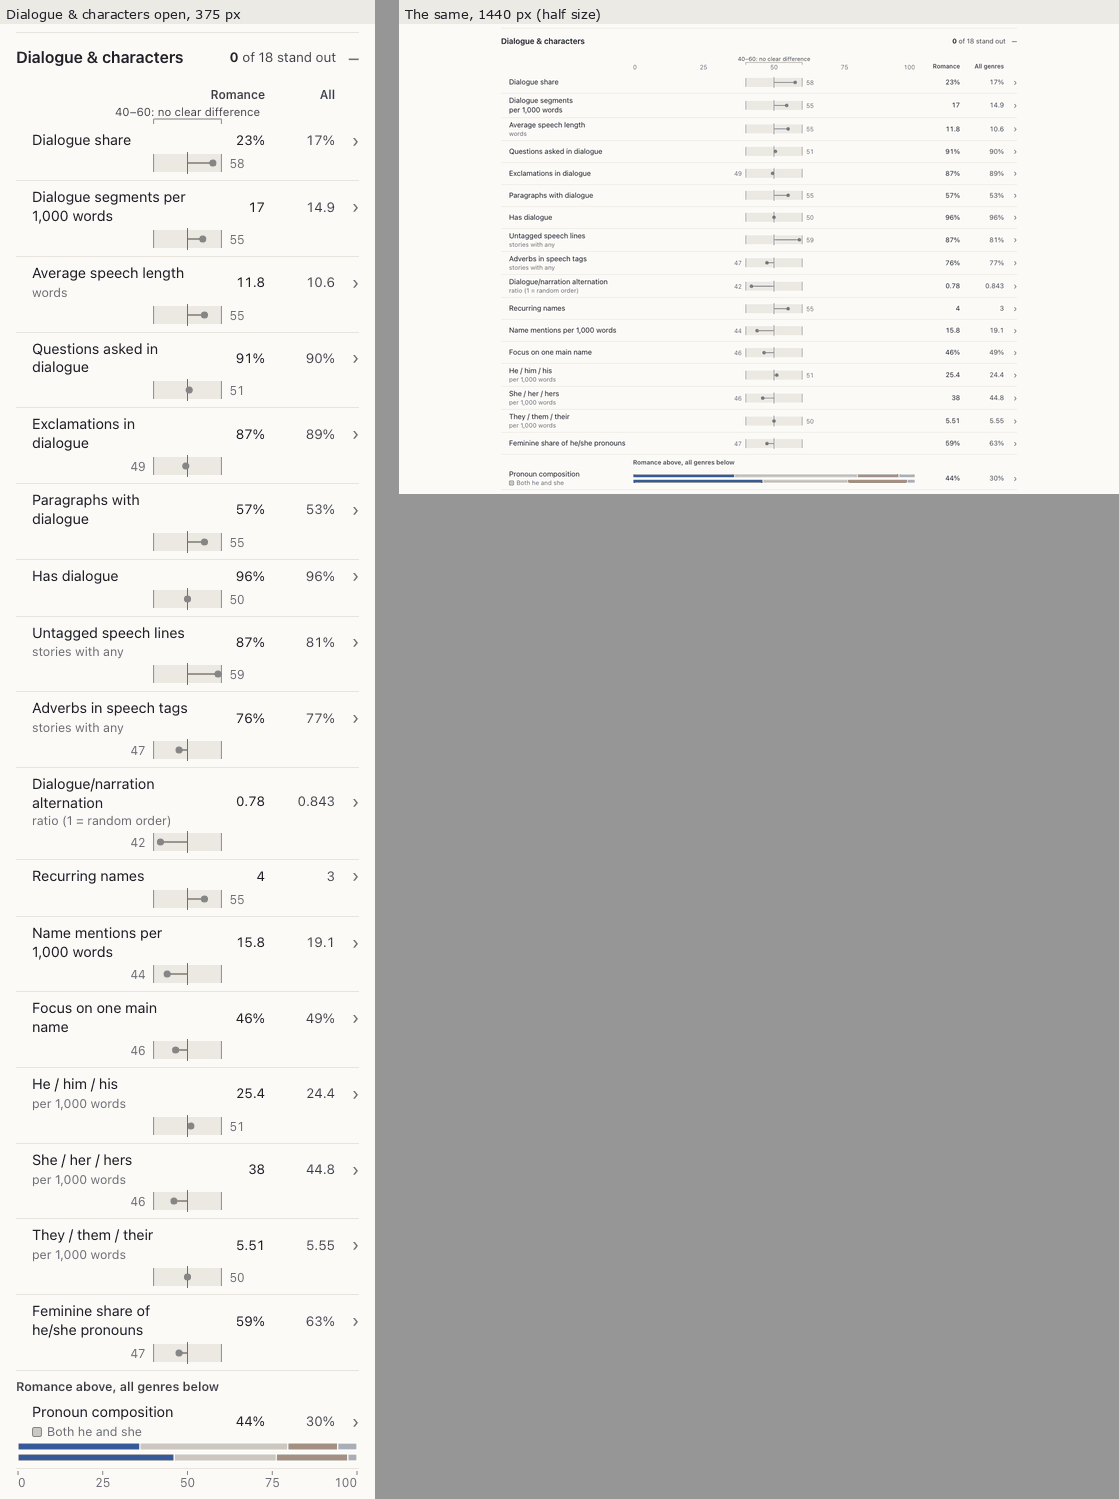
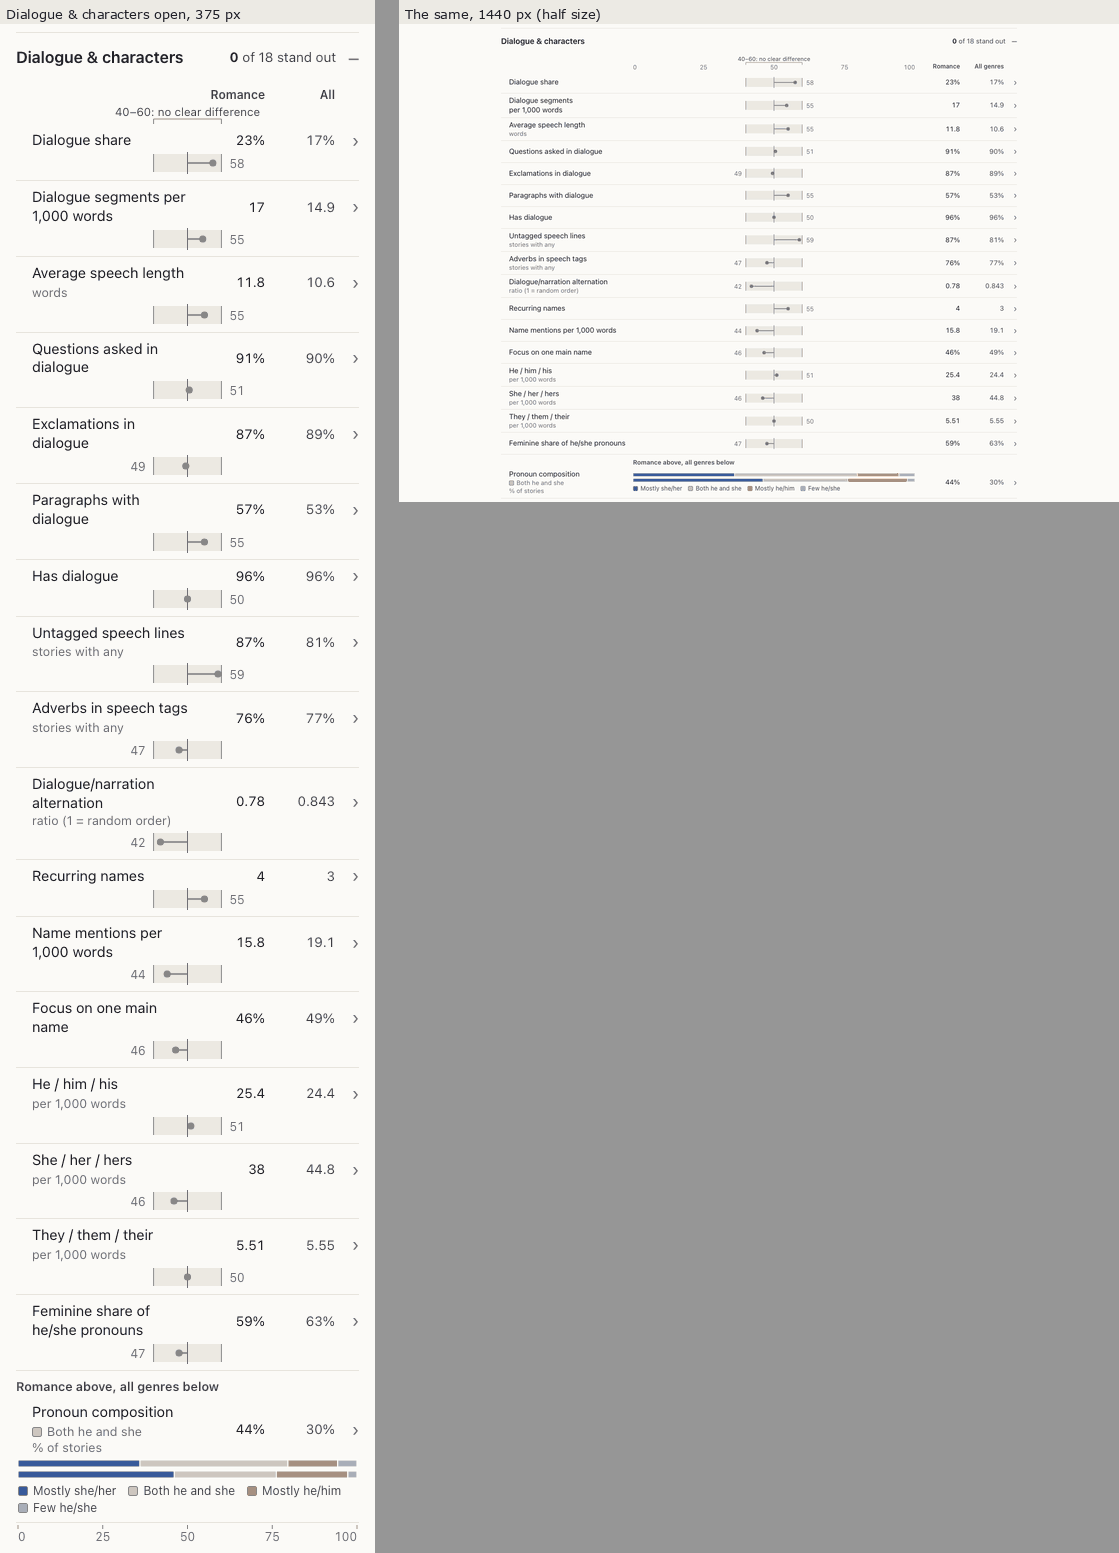
Stage 2 one genre: the key and "% of stories", measured and read again
docs/stage2/ONE_GENRE_REVIEW.md, new section 10.9: the owner's second follow-up (a key of every group under a named
group's bars, "% of stories" on the row and in its name), as built in fddb2fa; 10.8's two open items are marked done.

Measured: 0 glyph-box problems in 360 pages with either font, with 1,680 keys checked too; the bad-break output the
same line for line; axe 0 in 30 runs; label in name passes; the keys draw in forced colors, light and dark; first
load 148.5 KiB, unchanged; a visit on View 2 204.4 KiB.

The stand-ins again: "only one color labeled" 0/6 (6/6); in Q11, 6/6 name every group and its color from the key,
6/6 read the shares as shares of stories (6/6 unsure before), and which bar is which and what 44% and 30% go with
stay at 6/6. Left for the owner: the named groups' palette (its blue and gray read like "stands out" and "no clear
difference", 3/6), and a verdict on a named-group row that doesn't stand out.

After screenshots a03, a05, a06, a07 and a09 redone.

diff --git a/docs/stage2/ONE_GENRE_REVIEW.md b/docs/stage2/ONE_GENRE_REVIEW.md
@@ -4,7 +4,7 @@
 review: before and after, the README and the prompt"). **Status: approved and implemented** on branch `one-genre` (from
 `main` at `0d8611d`, October 10–11, 2026), following `STAGE2_ONE_GENRE_IMPLEMENTATION_PROMPT.md`: R3, S1 and T1 with the
 quick wins. Not pushed. What was built, measured and left open is in section 10; your follow-up on the mix line
-(October 11) is in 10.8.*
+(October 11) is in 10.8 and 10.9.*
 
 - **A branch to know about.** While I wrote this, your working copy moved to `simplify-png`: eleven commits after
   `692939e`, since merged into `main` as `0d8611d`. On View 2 it removes three things this review covers:
@@ -1214,13 +1214,13 @@ in `scores.md` ("built-mix").
   score explained once (6/6), an open topic "a long wall" of gray rows (3/3 desktop). Five rated the page 3 of 5; one
   said 4 for the gist and 3 for the charts (every earlier run said 3).
 
-**Still open (each needs your yes)**
+**Still open (each needs your yes)** *(both done at your word on October 11: 10.9)*
 
-- **The named groups' other colors**: a key for all of a row's groups, as View 1's legend has ("■ Mostly she/her
+- ~~**The named groups' other colors**: a key for all of a row's groups, as View 1's legend has ("■ Mostly she/her
   ■ Both he and she ■ Mostly he/him ■ Few he/she"), under the bars or in place of the one name; it would add a line
-  to each such row, and its words are new.
-- **What the bars split**: "% of stories" somewhere on the row (each story counts once, in the group its pronouns put
-  it in), e.g. in the unit line after the group's name. New words too.
+  to each such row, and its words are new.~~
+- ~~**What the bars split**: "% of stories" somewhere on the row (each story counts once, in the group its pronouns put
+  it in), e.g. in the unit line after the group's name. New words too.~~
 
 **My calls here**
 
@@ -1231,3 +1231,65 @@ in `scores.md` ("built-mix").
 3. **Each named-group row gets its own line**, so "Narration" has two, two rows apart.
 4. **No swatch where the bars aren't drawn** (too few stories to compare), since there would be nothing for it to
    key; the group's name stays.
+
+### 10.9 Your second follow-up: a key of every group, and "% of stories" (October 11)
+
+You chose both fixes 10.8 left open. Built in `fddb2fa`; this write-up and the redone screenshots are the commit after
+it. Not pushed.
+
+**What changed**
+
+- **A key under a named group's bars**, as View 1's legend has it: every group's swatch and name, in the bars' order
+  (`mixColors`, so the colors are the bars' own), 12 px in the second ink, an item never broken. It sits in the plot's
+  cell, under the bars: wide, in the plot's column; stacked, across the row. Only where the bars are drawn, so not with
+  too few stories to compare. Hidden from screen readers, as the bars are: the row's name has every share.
+- **"% of stories"** on a line of its own under the printed group's name, wherever the row prints numbers (also without
+  bars), and in the row's name: "Pronoun composition, % of stories: Romance Mostly she/her 36%, …".
+
+**Measured** on the build, frozen and served with gzip (`v2glyphs-key.mjs` adds the key; `forcedgenres-key.mjs` adds
+its items and counts an element's own text beside a child, which the earlier copy missed):
+
+| Measure | `0aa851d` | Now |
+|---|---|---|
+| Glyph boxes, 360 pages each font | 0 problems | **0 with the site font and 0 with Verdana**, the same 76,328 rows; plus 1,680 keys (under their bars, inside the plot's cell and the row, items on one line and on no other item) and "% of stories" under its group's name |
+| Bad breaks, every genre, both fonts, 4 widths | 0 | **0**; the whole output the same line for line |
+| axe-core (30 runs) / label in name | 0 / passes | **0 / passes** |
+| Forced colors, light and dark | every mark draws | every mark draws, the key's items too (their text in the link's color, the swatches in theirs) |
+| First load | 148.5 KiB | **148.5 KiB**: the main script the same but for the chunks' names |
+| A visit that starts on View 2 | 204.3 KiB | 204.4 KiB, 8 requests |
+| The Genres chunk, as Vite counts it | 58.52 kB, 18.74 kB gzipped; CSS 14.21 kB, 3.54 kB | 58.94 kB, 18.84 kB gzipped; CSS 14.45 kB, 3.59 kB |
+| Tests | 359 in 29 files | 360 in 29 files |
+
+**Screenshots**: a03, a05, a06, a07 and a09 are redone from this build; a07 because its genre's rows without bars now
+say "% of stories".
+
+**Fresh eyes again** (screens `built-key`, the same six-stand-in test and Q11; `fresh-eyes/built-key.md`, scored in
+`scores.md` as "built-key"):
+
+| | Only one color labeled (Q10) | Q11: which bar is which | Q11: what 44% and 30% go with | Q11: what the other colors are | Q11: what the shares are of |
+|---|---|---|---|---|---|
+| 10.8 | 6/6 | 6/6 | 6/6 | 0/6 | 6/6 unsure |
+| **Now** | **0/6** | **6/6** | **6/6** | **6/6**, from the key | **6/6**: "the share of stories that use both he and she" |
+
+- The mix line confused 0/6 again; Q4, Q5, Q7, Q9b and the gray dots stay at 6/6; all six rated the page 3 of 5.
+- **New or still:** the named groups' blue and gray read like the page's "stands out" blue and "no clear difference"
+  gray (3/6) and the two blues look alike (3/6); "Romance above, all genres below" is small or easy to miss (3/6,
+  phones); the bars are thin (3/6, desktops); a named-group row has no dot, so whether 44% vs 30% is a clear difference
+  isn't shown on it (2/6).
+
+**Still open (each needs your yes)**
+
+- **The named groups' palette** is the Genres page's, in both views (the largest group in the darkest blue, the second
+  in a warm gray). Colors that can't be read as "stands out" or "no clear difference" would change View 1's charts too.
+- **A named-group row's verdict**: a stand-out has its ≠ in a topic and sits in "A different mix", but a row that
+  doesn't stand out shows nothing like a gray dot; "no clear difference" could be said on the row (new words).
+
+**My calls here**
+
+1. **The key in the plot's cell, under the bars**, rather than a line of its own under the row, so it lines up with
+   the bars at every width.
+2. **"% of stories" on a line of its own**, not after a comma: a long group's name and the unit would break unevenly
+   on phones.
+3. **Every group in the key**, as in View 1's legend, even one too small to see in either bar ("First person plural
+   (we)").
+4. **The row's name says "% of stories" once**, after the label, rather than after every share.
